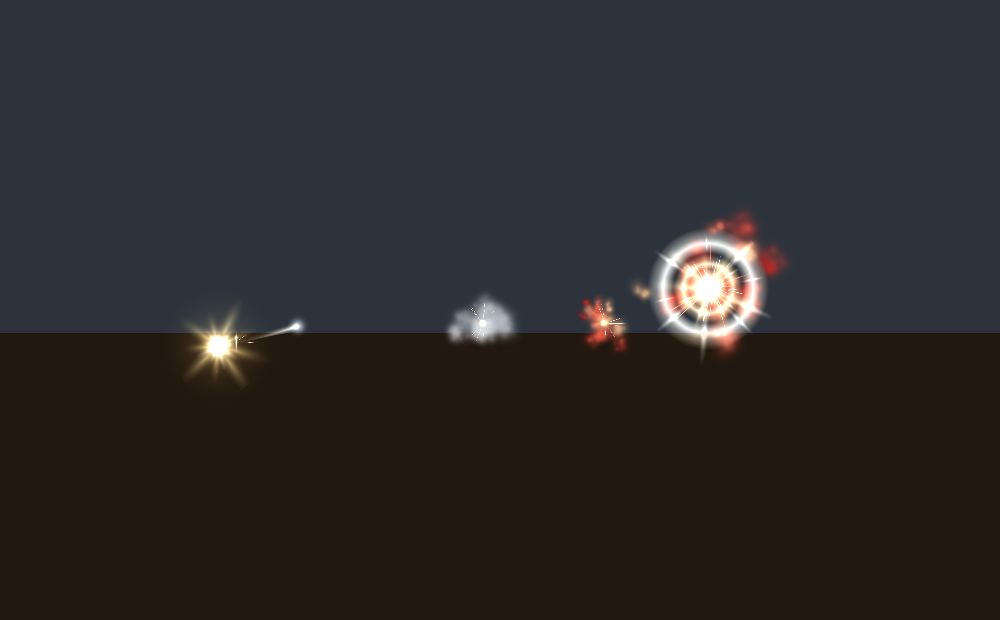
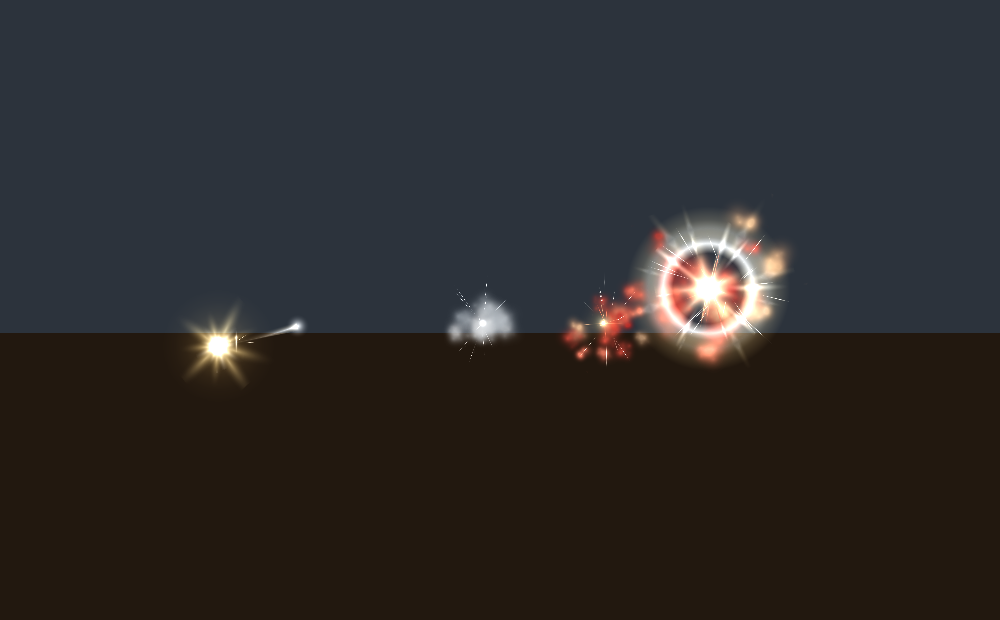
環境・VFXモジュールの担当による追い込み反映
環境と射撃エフェクトの担当がそれぞれ描画結果を見て詰めた版。
リグレッション86項目は実行中で、ここまで全項目通過。
描画予算は draw=49 / tri=68,604（上限 150 / 250,000）で余裕あり。

Claude-Session: https://claude.ai/code/session_01WWzq8eyFFA5BGV3pj9UJTc

Changed region(s): [[0.558, 0.3371, 0.806, 0.6129]]

diff --git a/ashline/art/env.js b/ashline/art/env.js
@@ -322,7 +322,7 @@
         var len = Math.sqrt(nx * nx + ny * ny + nz * nz);
         out[0] = nx / len; out[1] = ny / len; out[2] = nz / len;
       }
-      var nA = [0, 0, 0];
+      var nA = [0, 0, 0], tone = 1;
       function vert(i2, j2) {
         var x3 = -FH + i2 * FS, z3 = -FH + j2 * FS;
         bGround.p.push(x3, Y[i2][j2], z3);
@@ -330,10 +330,22 @@
         bGround.n.push(nA[0], nA[1], nA[2]);
         bGround.u.push(x3 * 0.34, z3 * 0.34);
         var c2 = CC[i2][j2];
-        bGround.c.push(c2.r, c2.g, c2.b);
+        bGround.c.push(c2.r * tone, c2.g * tone, c2.b * tone);
       }
+      /* 敷石。頂点は非共有なのでセル単位でトーンを変えられる＝約1mの石畳になる。
+         テクスチャに頼らずに「舗装された旧市街の広場」であることを地面に持たせる。
+         （tex がある本番では map の目地がこの上に乗る） */
       for (i = 0; i < FN; i++) {
         for (j = 0; j < FN; j++) {
+          var si = Math.floor(i / 2), sj = Math.floor(j / 2);
+          tone = 0.84 + 0.30 * hash2(si * 3.71, sj * 2.93);
+          // 弾着痕のまわりは石が跳ね上げられてバラバラ＝トーンが暴れる
+          var mx = -FH + (i + 0.5) * FS, mz = -FH + (j + 0.5) * FS, ci;
+          for (ci = 0; ci < CRATERS.length; ci++) {
+            var cr2 = CRATERS[ci];
+            var dd = Math.sqrt((mx - cr2.x) * (mx - cr2.x) + (mz - cr2.z) * (mz - cr2.z)) / cr2.r;
+            if (dd < 1.8) tone *= 1 - 0.34 * smooth(1.8 - dd) * (hash2(i * 1.3, j * 1.9) - 0.35);
+          }
           vert(i, j); vert(i, j + 1); vert(i + 1, j + 1);
           vert(i, j); vert(i + 1, j + 1); vert(i + 1, j);
         }
@@ -621,16 +633,19 @@
       // 地平の板。壁の外に虚空が見えると廃墟が浮くので必ず敷く
       fbox({ x: 0, y: -0.14, z: 0, hx: 95, hy: 0.06, hz: 95, col: C.ground, k: 0.70, fogK: 0.80, noBottom: true });
 
+      /* リングごとに「疎らで低い手前」→「密で高い奥」。手前を詰め込むと
+         空が消えて地平線が読めなくなり、逆光の層が成立しない。 */
       var rings = [
-        { r0: 15.2, r1: 23.0, n: 30, h0: 4.5, h1: 11.0 },
-        { r0: 23.0, r1: 34.0, n: 30, h0: 7.0, h1: 18.0 },
-        { r0: 34.0, r1: 47.0, n: 26, h0: 9.0, h1: 24.0 },
-        { r0: 47.0, r1: 66.0, n: 22, h0: 11.0, h1: 28.0 }
+        { r0: 15.4, r1: 22.0, n: 16, h0: 4.0, h1: 8.5, p: 0.62 },
+        { r0: 22.0, r1: 33.0, n: 26, h0: 6.0, h1: 15.0, p: 0.78 },
+        { r0: 33.0, r1: 47.0, n: 26, h0: 8.0, h1: 22.0, p: 0.9 },
+        { r0: 47.0, r1: 68.0, n: 24, h0: 10.0, h1: 30.0, p: 1.0 }
       ];
       var ri, k, i;
       for (ri = 0; ri < rings.length; ri++) {
         var R = rings[ri];
         for (k = 0; k < R.n; k++) {
+          if (rnd() > R.p) continue;                 // 隙間＝空。地平線を読ませる
           var ang = (k / R.n) * TAU + rr(-0.4, 0.4) * (TAU / R.n);
           var rad = rr(R.r0, R.r1);
           var bx = Math.cos(ang) * rad, bz = Math.sin(ang) * rad;

diff --git a/ashline/art/debris.js b/ashline/art/debris.js
@@ -127,7 +127,9 @@
     /* 配置の最終関門。ここを通らないものは1つも床に乗らない。 */
     function accept(x, z, laneMul) {
       if (x < -LIM_X || x > LIM_X || z < -LIM_Z || z > LIM_Z) return false;
-      if (insideCover(x, z, -0.015)) return false;          // 箱の内側は不可
+      /* 正のマージン。箱の内側は 1 個も許さない。
+         瓦礫が当たり判定箱に埋まると「見えている物に当たらない」の入口になる。 */
+      if (insideCover(x, z, 0.02)) return false;
       var tr = traffic(x, z);
       /* 踏み均された道は 10%。それ以外は距離に応じて素直に増える。 */
       var keep = 0.06 + 0.94 * tr;
@@ -152,14 +154,23 @@
       var ang = [0.00, 0.76, 1.63, 2.52, 3.58, 4.78];
       var topY = [1.00, 0.58, 0.92, 0.50, 0.95, 0.70];   // 欠けた天面
       var tx = [], tz = [], ty = [], bx = [], bz = [];
-      var i;
+      var i, gcx = 0, gcz = 0;
       for (i = 0; i < n; i++) {
         tx[i] = Math.cos(ang[i]) * rad[i];
         tz[i] = Math.sin(ang[i]) * rad[i];
+        gcx += tx[i]; gcz += tz[i];
+      }
+      /* 半径をばらした結果、形の重心は原点からずれる。
+         そのままだとインスタンスの座標＝見た目の中心にならず、
+         遮蔽の箱ぎりぎりに置いた破片が数cm箱の内側へ食い込む。
+         配置判定を信用できるように、ここで重心を原点へ寄せておく。 */
+      gcx /= n; gcz /= n;
+      for (i = 0; i < n; i++) {
+        tx[i] -= gcx; tz[i] -= gcz;
         ty[i] = CH_H * topY[i];
         /* 底面はわずかに広い＝下すぼまりでなく安定して座って見える */
-        bx[i] = Math.cos(ang[i]) * rad[i] * 1.06;
-        bz[i] = Math.sin(ang[i]) * rad[i] * 1.06;
+        bx[i] = tx[i] * 1.06;
+        bz[i] = tz[i] * 1.06;
       }
 
       var pos = [], nor = [], col = [], uv = [];
@@ -569,8 +580,8 @@
           var pyaw = Math.atan2(bdirx, bdirz);
           /* まず着弾で舞い上がった淡い粉。これが無いと暗い床の上で
              暗い弾痕が完全に消え、連射の列が読めない。 */
-          addDecal(x, z, pr * rr(3.0, 4.2), pr * rr(2.4, 3.4), pyaw,
-            ASH.shade(T, P.plaster, rr(0.66, 0.90)), 0.45 + rnd() * 0.1);
+          addDecal(x, z, pr * rr(2.5, 3.5), pr * rr(2.0, 2.8), pyaw,
+            ASH.shade(T, P.plaster, rr(0.56, 0.78)), 0.45 + rnd() * 0.1);
           /* 弾痕は「入射角がついた楕円」。真円だと真上から撃たれたことになる */
           addDecal(x, z, pr * rr(1.5, 2.4), pr, pyaw,
             ASH.shade(T, P.grime, rr(0.45, 0.78)), 0.78 + rnd() * 0.18);

diff --git a/ashline/art/enemy.js b/ashline/art/enemy.js
@@ -184,9 +184,13 @@
          前傾19.5°。胴だけを倒し、脚は床に垂直のまま残すことで
          「上半身が先に突っ込んでいる」姿勢を作る（脚は body の子で傾かない）。
          ---------------------------------------------------------------- */
-      torso.rotation.x = 0.34;
-      armR.position.set(0.44, 0.16, 0);
-      armL.position.set(-0.44, 0.16, 0);
+      /* 前傾 28.6°。胴を倒すほど全高が下がり、同時に頭と肩が腰より前に出る。
+         「低い」と「重心が前」を1つのパラメータで同時に作れるので角度は強めに取る。 */
+      torso.rotation.x = 0.50;
+      /* 肩ピボットを外へ逃がして、胸の側面と上腕の間に切れ込みを作る。
+         ここが繋がると輪郭が1枚の塊になり人型に見えなくなる。 */
+      armR.position.set(0.50, 0.14, 0);
+      armL.position.set(-0.50, 0.14, 0);
       legR.position.set(0.23, 0.86, 0);
       legL.position.set(-0.23, 0.86, 0);
 
@@ -197,11 +201,11 @@
       tB.add(BOX, 0.64, 0.24, 0.13, 0, -0.24, 0.24, -0.30, 0, 0, AR);
       tB.add(BOX, 0.66, 0.04, 0.10, 0, -0.10, 0.26, 0, 0, 0, TR);
       /* 胸。前面2枚の傾斜板＋その境目の明るいシーム＝正面から見た時だけ層が見える */
-      tB.add(BOX, 0.66, 0.46, 0.44, 0, 0.18, 0.00, 0, 0, 0, DK);
-      tB.add(BOX, 0.78, 0.42, 0.15, 0, 0.24, 0.25, -0.20, 0, 0, AR);
-      tB.add(BOX, 0.72, 0.24, 0.13, 0, -0.02, 0.27, 0.26, 0, 0, AR);
-      tB.add(BOX, 0.80, 0.05, 0.11, 0, 0.10, 0.30, 0, 0, 0, TR);
-      tB.mirror(BOX, 0.10, 0.40, 0.40, 0.34, 0.16, 0.02, 0, 0, 0, AR);
+      tB.add(BOX, 0.62, 0.44, 0.44, 0, 0.16, 0.00, 0, 0, 0, DK);
+      tB.add(BOX, 0.70, 0.40, 0.15, 0, 0.22, 0.25, -0.20, 0, 0, AR);
+      tB.add(BOX, 0.66, 0.24, 0.13, 0, -0.02, 0.27, 0.26, 0, 0, AR);
+      tB.add(BOX, 0.72, 0.05, 0.11, 0, 0.09, 0.30, 0, 0, 0, TR);
+      tB.mirror(BOX, 0.09, 0.36, 0.38, 0.32, 0.14, 0.02, 0, 0, 0, AR);
       /* 背は布と小さな荷。前後で厚みが違う＝横から見ても前が重い */
       tB.add(BOX, 0.52, 0.48, 0.10, 0, 0.12, -0.21, 0, 0, 0, CL);
       tB.add(BOX, 0.42, 0.26, 0.17, 0, 0.32, -0.23, 0, 0, 0, DK);

diff --git a/ashline/art/vfx.js b/ashline/art/vfx.js
@@ -923,8 +923,8 @@
       reset();
       E.x = x + nX * 0.03; E.y = y + nY * 0.03; E.z = z + nZ * 0.03;
       E.tile = TILE_HOT;
-      tint(head ? COL.core : COL.ember, head ? 0.9 : 0.9);
-      sizeU(0.16 * S, 0.40 * S);
+      tint(head ? COL.core : COL.ember, head ? 0.75 : 0.9);
+      sizeU(head ? 0.20 : 0.16 * S, head ? 0.46 : 0.40 * S);
       E.ttl = 0.08 * L; E.grow = 0.45; E.a0 = 1.0; E.fade = 1.0;
       emit(ADD);
       reset();
@@ -942,15 +942,23 @@
            白いリングは「UIのエフェクト」に見えるが、橙なら「火」に見える。 */
         reset();
         E.x = x + nX * 0.05; E.y = y + nY * 0.05; E.z = z + nZ * 0.05;
-        E.tile = TILE_RING; tint(COL.spark, 1.1); sizeU(0.80, 2.60);
-        E.rot = rnd() * 6.283;
-        E.ttl = 0.26; E.grow = 0.34; E.a0 = 0.95; E.fade = 1.5;
-        emit(ADD);
+        /* 真円は「UIのレティクル」に見える。縦横を崩して回すと同じ輪でも
+           「押し広げられた空気」に見える。 */
+        var e1 = rr(0.70, 0.92);
         reset();
         E.x = x + nX * 0.05; E.y = y + nY * 0.05; E.z = z + nZ * 0.05;
-        E.tile = TILE_RING; tint(COL.glow, 1.0); sizeU(0.50, 1.60);
+        E.tile = TILE_RING; tint(COL.spark, 1.1);
+        size(0.80 * e1, 2.60 * e1, 0.80, 2.60);
+        E.rot = rnd() * 6.283; E.rotv = (rnd() - 0.5) * 2.2;
+        E.ttl = 0.26; E.grow = 0.34; E.a0 = 0.95; E.fade = 1.5;
+        emit(ADD);
+        /* 2枚目は「同心円」に見せないため、大きく先行させて薄くする。
+           半径が近いと UI のレティクルに見えてしまう。 */
+        reset();
+        E.x = x + nX * 0.05; E.y = y + nY * 0.05; E.z = z + nZ * 0.05;
+        E.tile = TILE_RING; tint(COL.glow, 1.0); sizeU(1.45, 3.40);
         E.rot = rnd() * 6.283;
-        E.ttl = 0.34; E.grow = 0.4; E.a0 = 0.75; E.fade = 1.3;
+        E.ttl = 0.30; E.grow = 0.42; E.a0 = 0.38; E.fade = 1.4;
         emit(ADD);
         /* その2：花弁のスターバースト。マズルと同じ語彙を使い、
            「銃口と同じ格の出来事が敵の頭で起きた」と読ませる。 */
